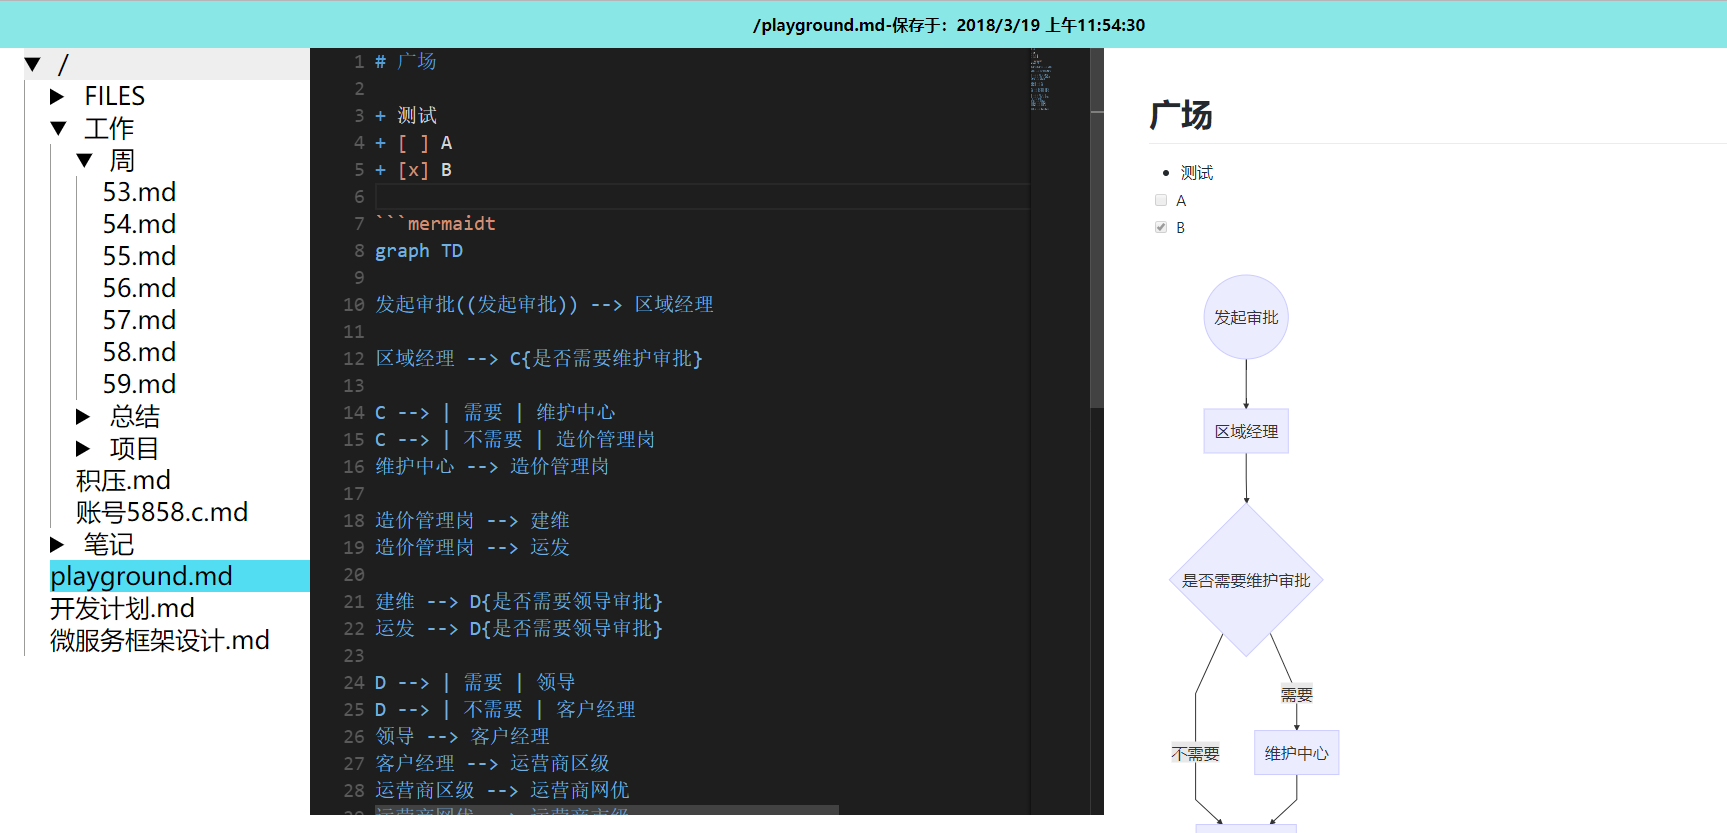
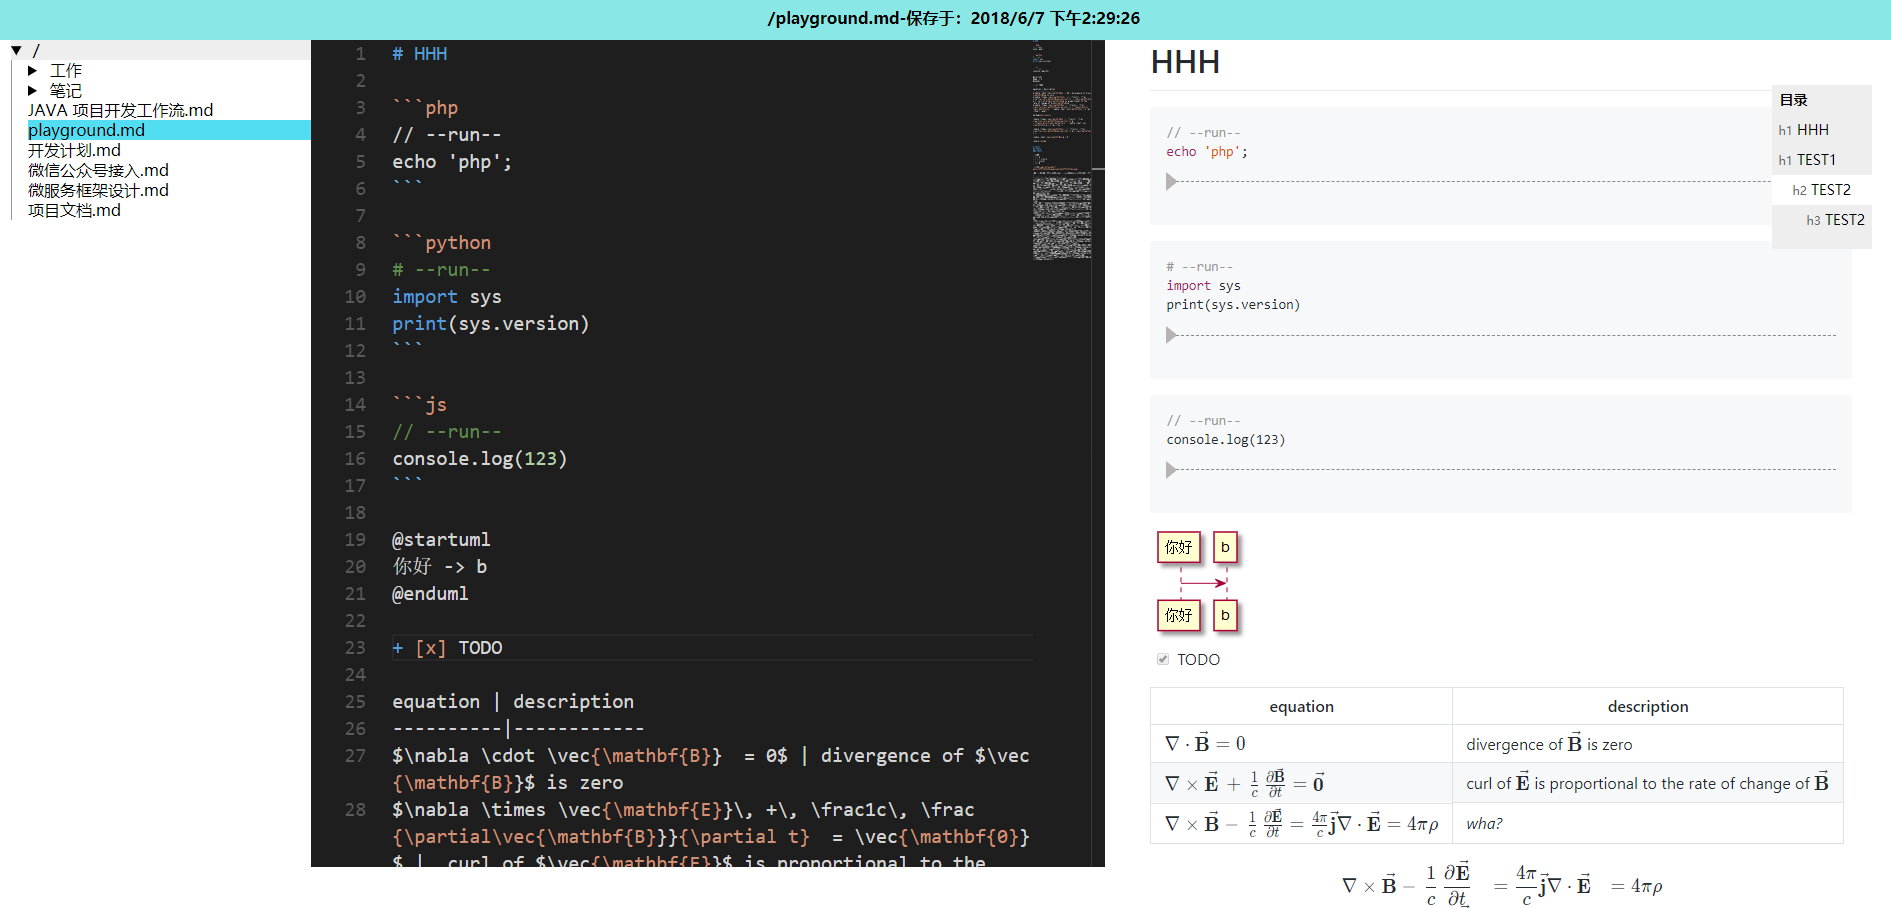
增加目录展示

diff --git a/frontend/src/components/View.vue b/frontend/src/components/View.vue
@@ -1,5 +1,16 @@
 <template>
-  <article ref="view" class="markdown-body" @click="handleClick"></article>
+  <div class="view">
+    <div ref="outline" class="outline">
+      <div style="padding: .5em;"><b>目录</b></div>
+      <div class="catalog">
+        <div v-for="(head, index) in heads" :key="index" :style="{paddingLeft: `${head.level}em`}" @click="syncScroll(head.sourceLine)">
+          <span style="color: #666;font-size: 12px;padding-left: .5em">{{head.tag}}</span>
+          {{ head.text }}
+        </div>
+      </div>
+    </div>
+    <article ref="view" class="markdown-body" @click="handleClick"></article>
+  </div>
 </template>
 
 <script>
@@ -25,6 +36,7 @@ export default {
   },
   data () {
     return {
+      heads: [],
       markdown: Markdown({
         linkify: true,
         breaks: true,
@@ -48,16 +60,32 @@ export default {
     this.render = _.debounce(() => {
       this.$refs.view.innerHTML = this.markdown.render(this.value)
       MermaidPlugin.update()
+      this.updateOutline()
     }, 500)
 
     this.render()
   },
   methods: {
+    updateOutline () {
+      const tags = ['h1', 'h2', 'h3', 'h4', 'h5', 'h6']
+      const nodes = this.$refs.view.querySelectorAll(tags.join(','))
+      this.heads = Array.from(nodes).map(node => {
+        return {
+          tag: node.tagName.toLowerCase(),
+          text: node.innerText,
+          level: tags.indexOf(node.tagName.toLowerCase()),
+          sourceLine: parseInt(node.dataset['sourceLine'])
+        }
+      })
+    },
     handleClick (e) {
       if (e.target.classList.contains('source-line')) {
-        this.$emit('sync-scroll', parseInt(e.target.dataset['sourceLine']))
+        this.syncScroll(parseInt(e.target.dataset['sourceLine']))
         e.preventDefault()
       }
+    },
+    syncScroll (line) {
+      this.$emit('sync-scroll', line)
     },
     revealLine (line) {
       const nodes = document.querySelectorAll('.view .source-line')
@@ -78,7 +106,7 @@ export default {
 </script>
 
 <style scoped>
-.markdown-body {
+.view {
   box-sizing: border-box;
   min-width: 200px;
   max-width: 980px;
@@ -87,8 +115,52 @@ export default {
   width: 50vw;
 }
 
+.outline {
+  position: fixed;
+  right: 3em;
+  background: #eee;
+  font-size: 14px;
+  max-height: 3.2em;
+  max-width: 2em;
+  overflow: hidden;
+  transition: .1s ease-in-out;
+  z-index: 500;
+}
+
+.outline:hover {
+  max-height: 80vh;
+  max-width: 20em;
+}
+
+.outline > .catalog {
+  max-height: 80vh;
+  cursor: pointer;
+  overflow: auto;
+  padding-bottom: 1em;
+}
+
+.outline > .catalog > div {
+  padding: .5em;
+}
+
+.outline > .catalog > div:hover {
+  background: #fff;
+}
+
+@media print {
+  .outline {
+    display: none;
+  }
+  .view {
+    min-width: 100%;
+    max-width: 100%;
+    width: 100%;
+    height: auto;
+  }
+}
+
 @media (max-width: 767px) {
-  .markdown-body {
+  .view {
     padding: 15px;
   }
 }

diff --git a/frontend/src/components/Editor.vue b/frontend/src/components/Editor.vue
@@ -32,7 +32,9 @@ export default {
   },
   methods: {
     resize () {
-      this.editor.layout()
+      if (this.editor) {
+        this.editor.layout()
+      }
     },
     onGotAmdLoader () {
       window.require(['vs/editor/editor.main'], () => {

diff --git a/frontend/src/pages/Home.vue b/frontend/src/pages/Home.vue
@@ -181,12 +181,5 @@ export default {
   .editor, .header, .tree {
     display: none;
   }
-
-  .view.markdown-body {
-    min-width: 100%;
-    max-width: 100%;
-    width: 100%;
-    height: auto;
-  }
 }
 </style>

diff --git a/README.md b/README.md
@@ -40,7 +40,7 @@
 + [x] 静态文件
 + [x] 公式显示
 + [x] 运行 python php nodejs 块
-+ [ ] 大纲展示
++ [x] 大纲展示
 + [x] 同步滚动
 + [ ] 运行代码支持图表生成
 + [ ] 增加 rss 抓取
@@ -51,5 +51,4 @@
 + [ ] 标签
 + [ ] 移动端展示
 
-![截图](./screenshot2.png)
 ![截图](./screenshot.png)
